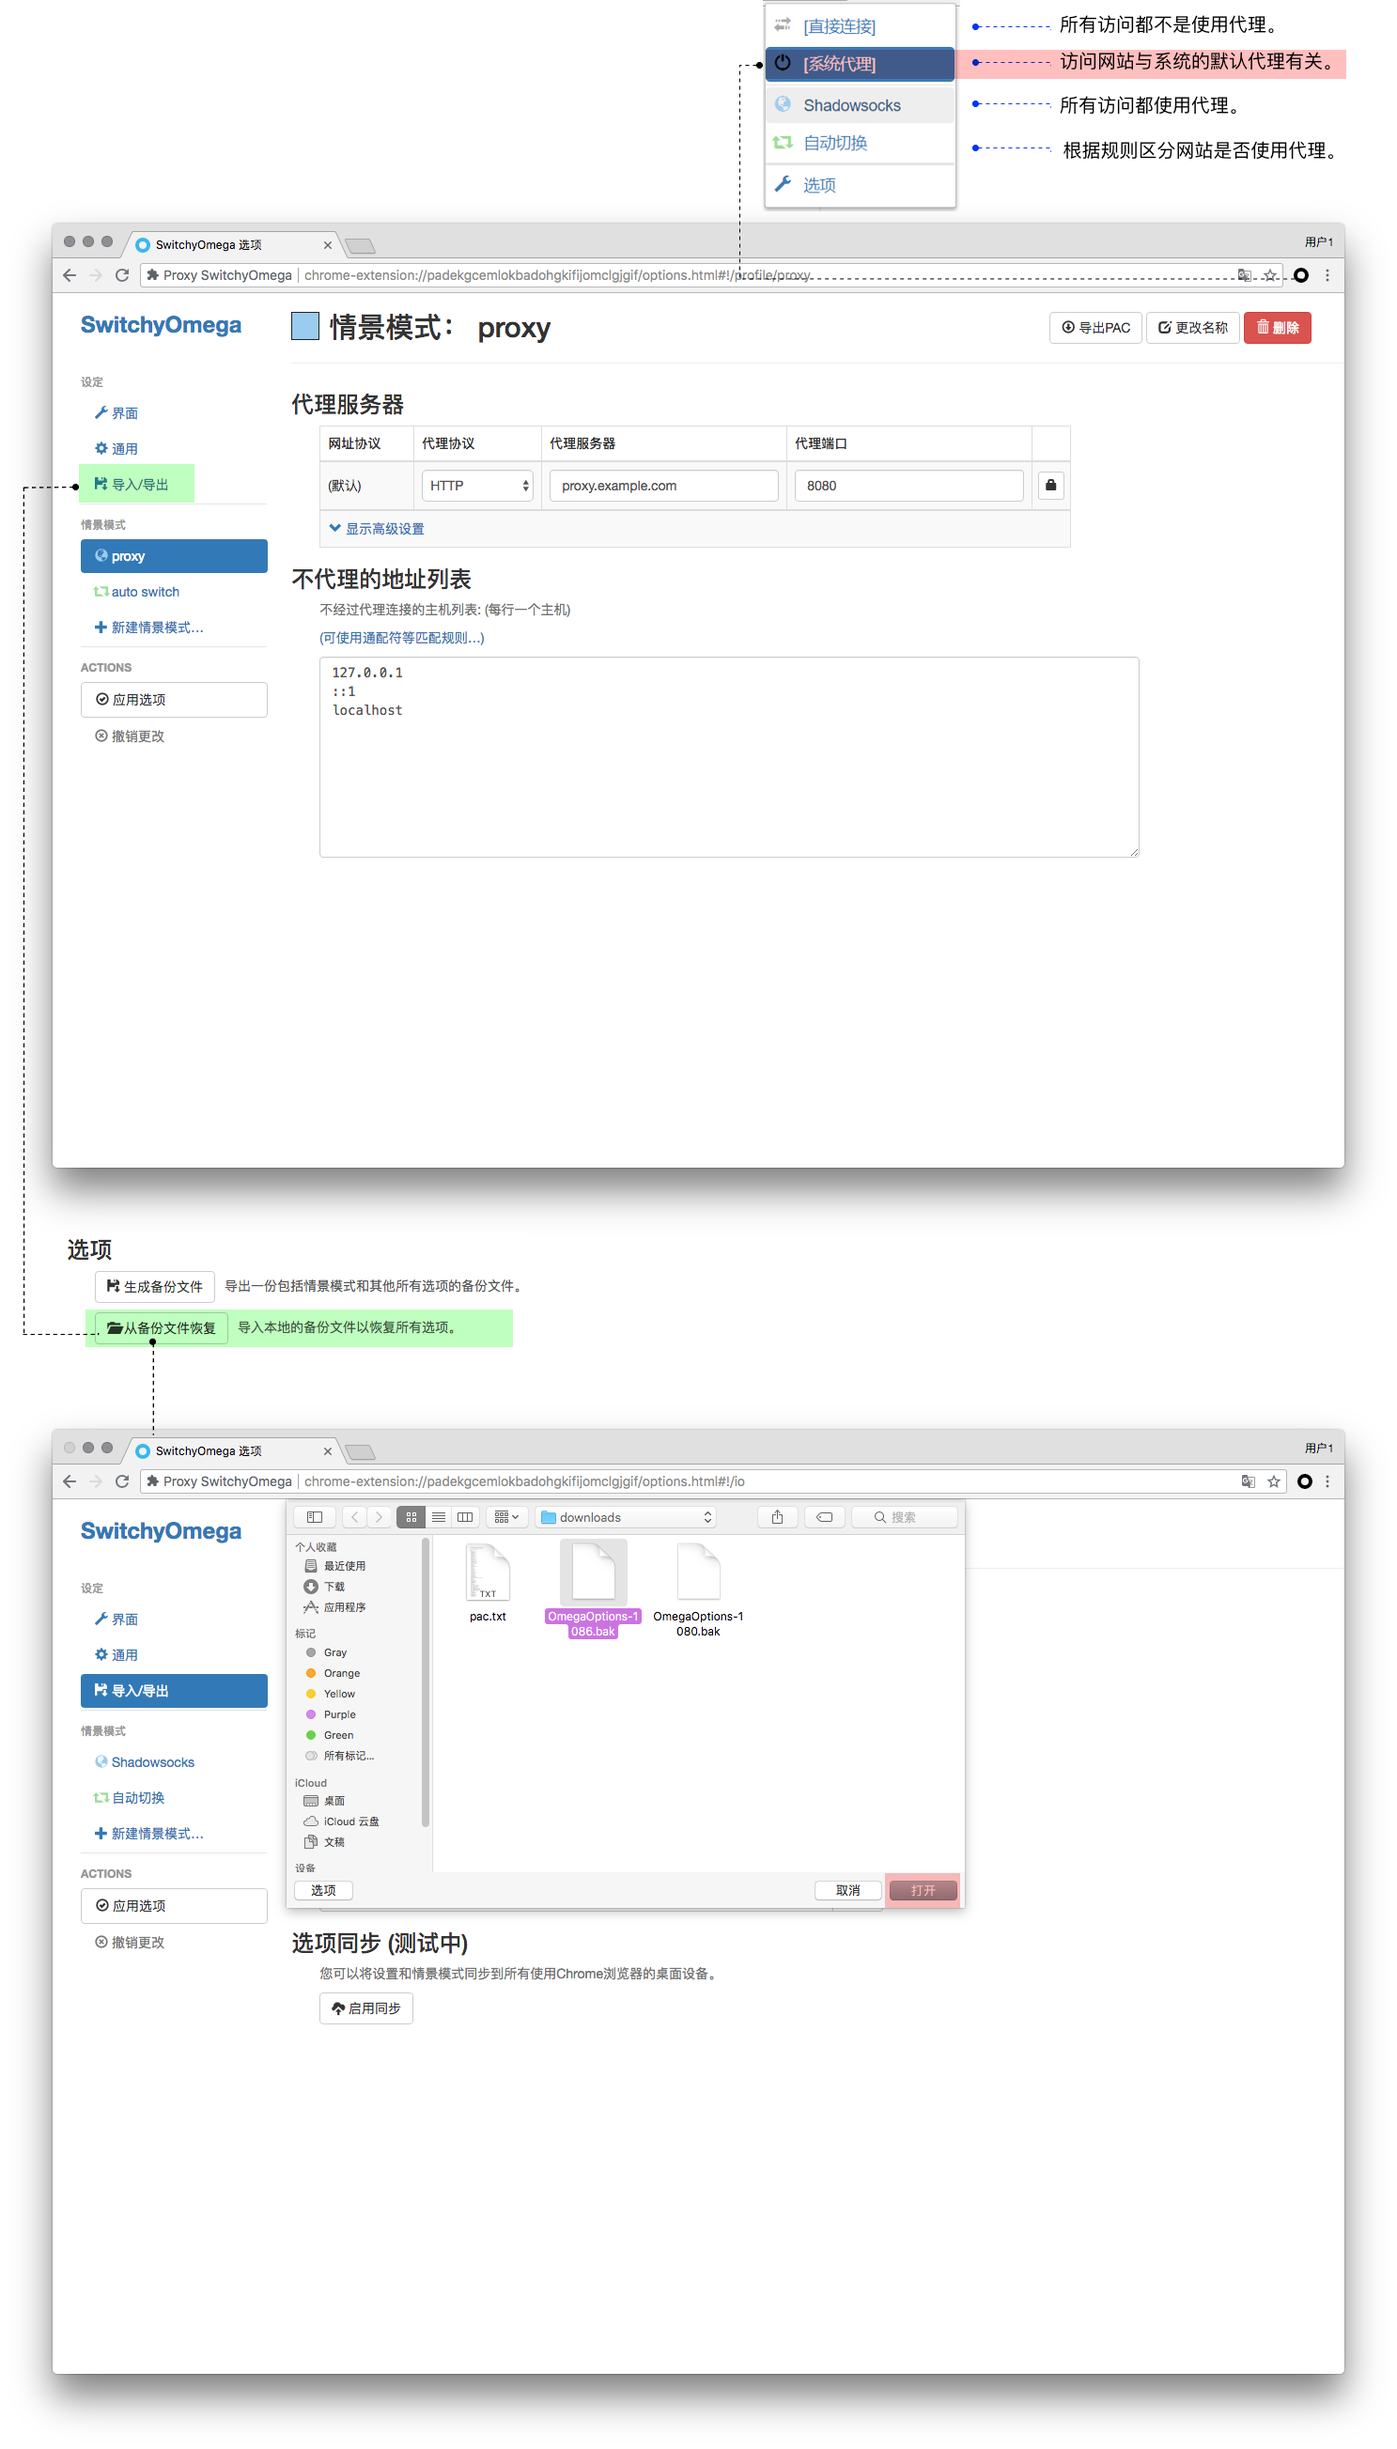
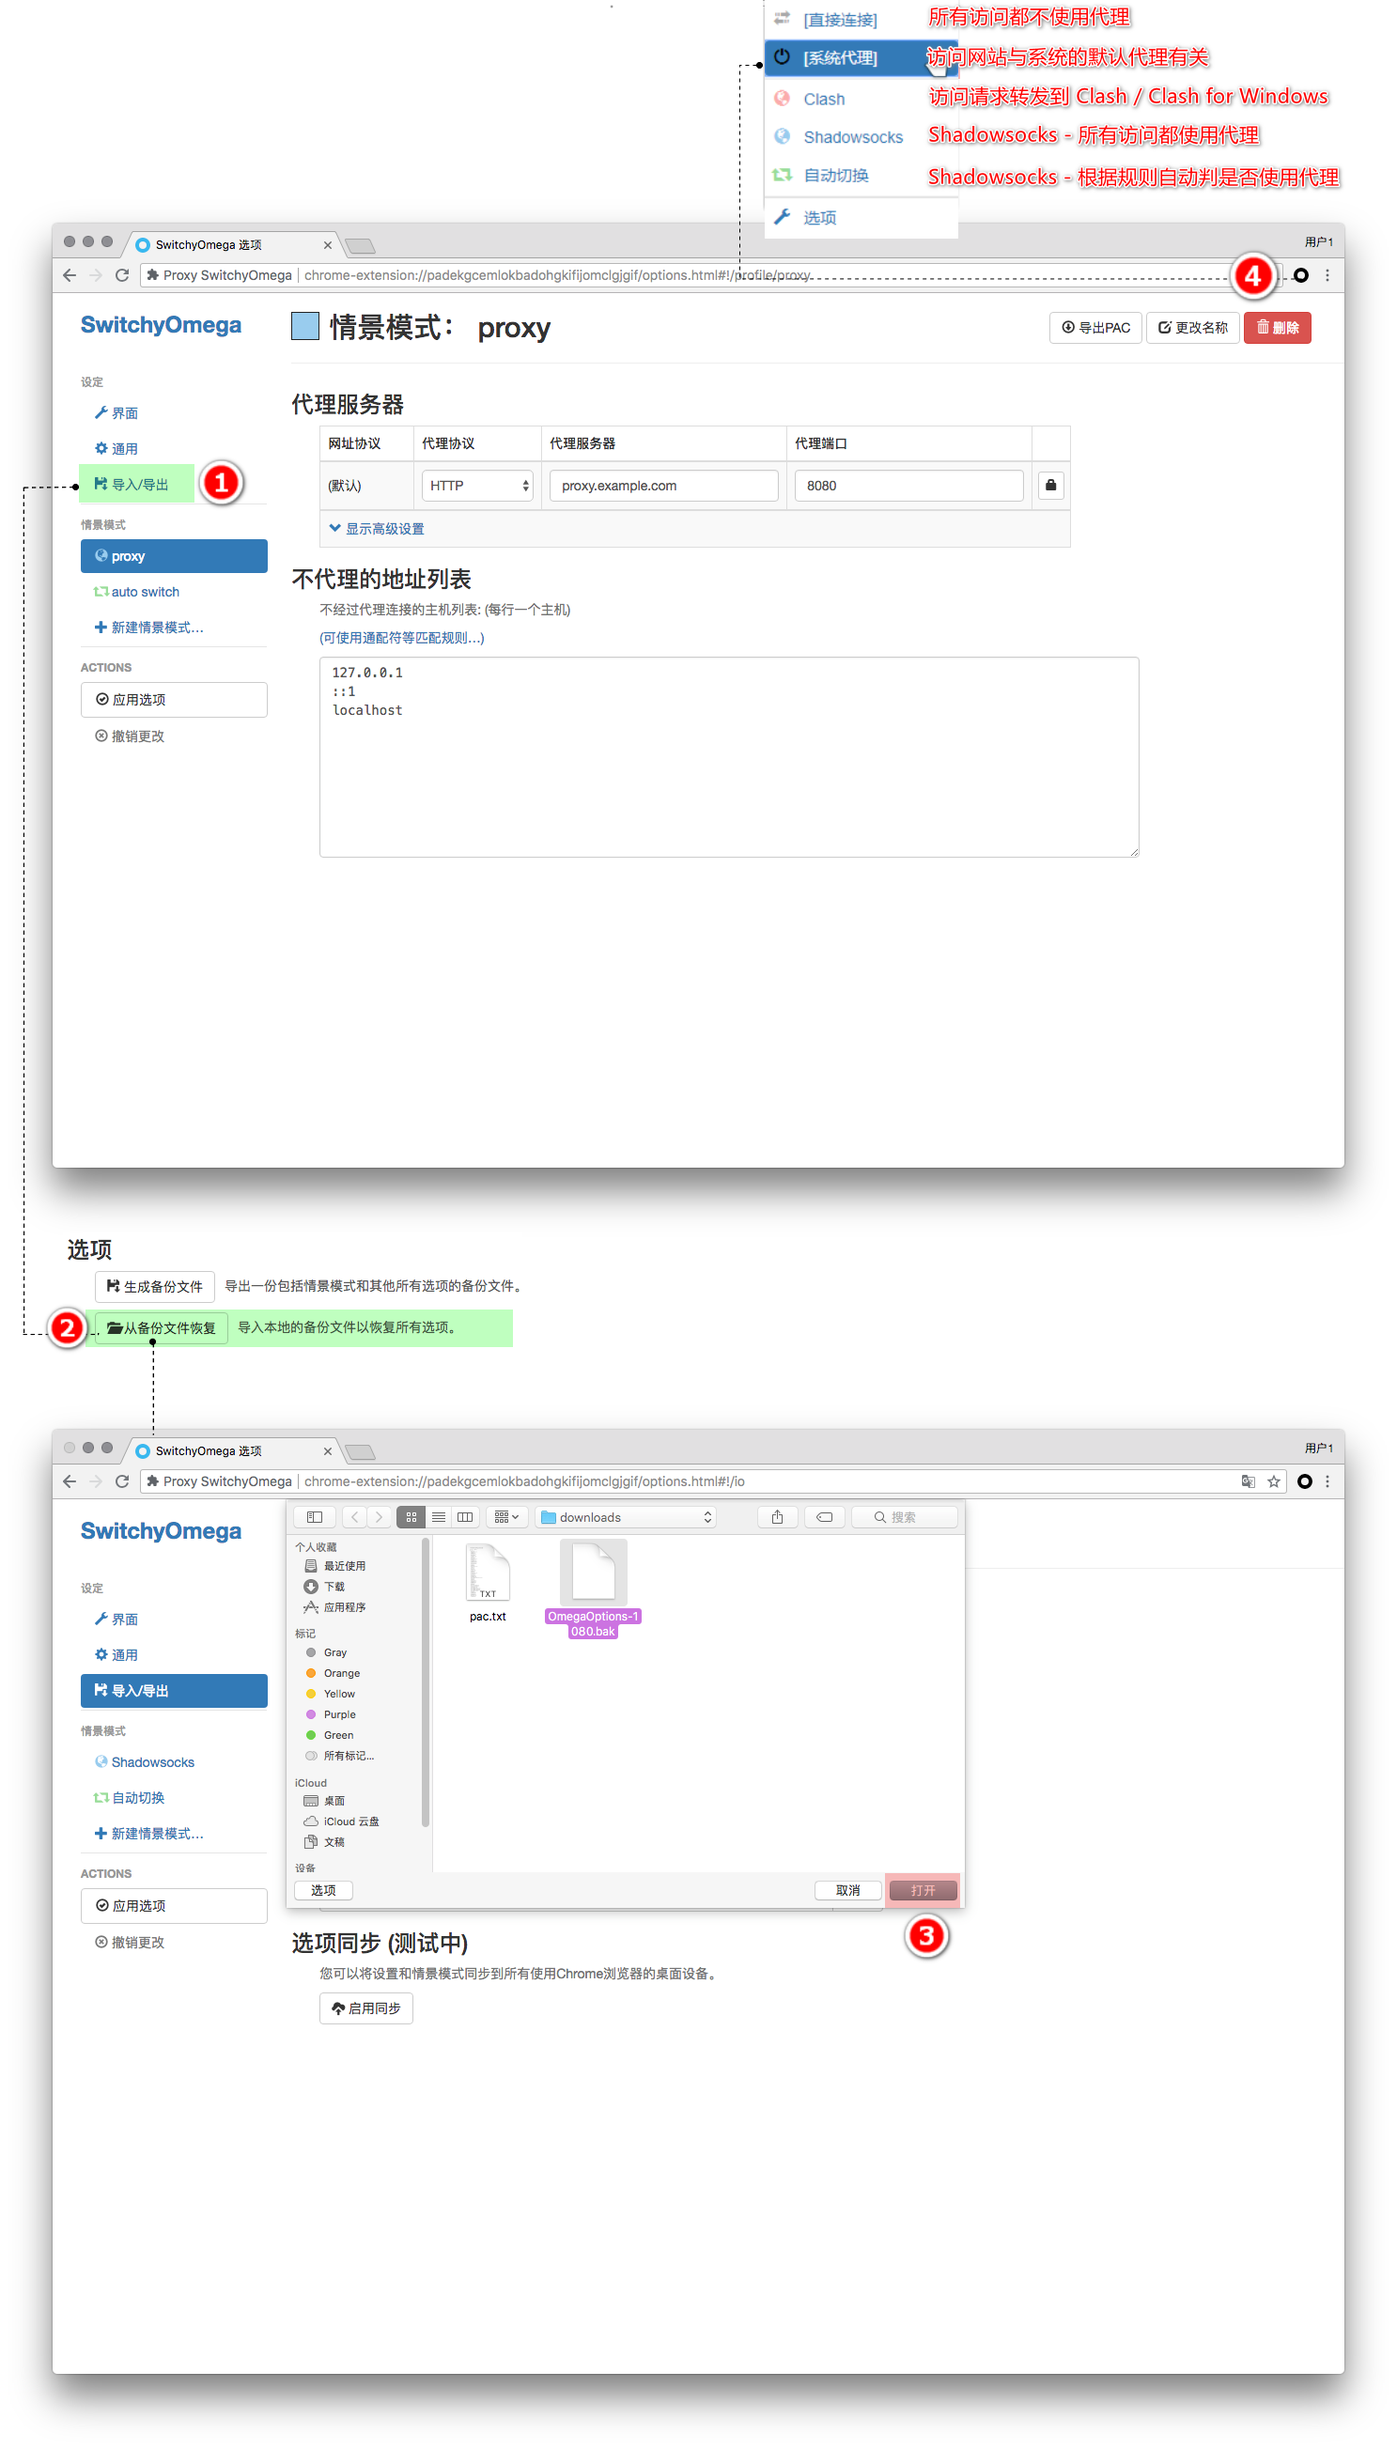
update

diff --git a/zh_CN/browser/chrome-setup-guide.md b/zh_CN/browser/chrome-setup-guide.md
@@ -1,10 +1,14 @@
 # Chrome + Proxy SwitchyOmega 设置
 
-**这里假设您已经配置好 Shadowsocks 客户端，具体请参考**
-
+**这里假设您已经配置好 Shadowsocks 客户端，具体请参考**  
+**Shadowsocks:**   
 - [Windows 下安装配置 Shadowsocks 使用教程](../../zh_CN/shadowsocks/windows-setup-guide.md)
 - [macOS 下安装配置 Shadowsocks 使用教程](../../zh_CN/shadowsocks/macos-setup-guide.md)
-- [Linux 下安装配置 Shadowsocks 使用教程](../../zh_CN/shadowsocks/linux-setup-guide.md)
+- [Linux 下安装配置 Shadowsocks 使用教程](../../zh_CN/shadowsocks/linux-setup-guide.md)    
+
+**Shadowsocks & V2ray[Vmess]:**
+* [Windows 下 Clash for Windows 使用教程](../../zh_CN/v2ray/clash-for-windows-setup-guide.md)
+* [macOS 下 ClashX 使用教程](../../zh_CN/v2ray/clashx-macos-setup-guide.md)
 
 ## 安装扩展
 
@@ -16,43 +20,38 @@
 
 **如果无法访问**
 
-* <font color="#FF0000">Chrome / Chromium  72 以上版本无法直接拖放安装，手动安装方法请参考：[浏览器设置教程 - Chrome 手动安装 SwitchyOmega](7-3-chrome-install-proxyswitchyomega-offline-cn.md)</font> 。  
-
-* 其他 Chrome 核心浏览器可访问 chrome://extensions/，请使用 Chrome 浏览器复制粘贴输入地址栏并回车访问。
-* 在 [Github](https://github.com/FelisCatus/SwitchyOmega/releases) 下载 SwitchyOmega.crx 文件并拖移入`chrome://extensions/` 。
-
-![使用Guthub](../../assets/images/bro-chrome-useGithub.png)
+<font color="#FF0000">Chrome / Chromium  72 以上版本无法直接拖放安装，手动安装方法请参考：</font>
+[浏览器设置教程 - Chrome 手动安装 SwitchyOmega](7-3-chrome-install-proxyswitchyomega-offline-cn.md)
 
 ## 扩展的配置
 
 **「推荐」** 可以直接使用本站提供的已经设置好的备份直接恢复配置。
 
-通过下面链接下载 SwitchyOmega 的配置文件：
+通过右侧链接下载 SwitchyOmega 的配置文件： [SwitchOmega + GFWList 自动切换配置文件](https://raw.githubusercontent.com/Shadowsocks-Wiki/shadowsocks/master/assets/OmegaOptions-1080.bak)
 
-|Windows/Linux/macOS(ShadowsocksX)|macOS|
-|:--------:|:--------:|
-|[SwitchOmega + GFWList 自动切换配置文件(1080)](https://portal.shadowsocks.center/dl.php?type=d&id=74)|[SwitchOmega + GFWList 自动切换配置文件(1086)](https://portal.shadowsocks.center/dl.php?type=d&id=75)|
-|适用于 Shadowsocks-Windows / Linux / ShadowsocksX(macOS) 等默认端口为 1080 的客户端。|适用于ShadowscoksX-NG， 默认本地端口为 1086|
+**注：使用该备份文件时，shadowsocks 客户端的本地 socks 监听端口应当设置为 1080** 
 
 * 点击 “Proxy SwitchyOmega” > "选项" > "导入/导出" > "从备份文件中恢复" 。
-
 * 选择刚才下载的配置文件 > "打开"。
 * 点击 "Switchyomega" 图标， 可以看到如下四个模式：
 
 
 |连接方式|功能|
-|--------|:--------:|
-|直接连接|所有访问都不是使用代理。|
+|:--------:|:--------:|
+|直接连接|所有访问都不使用代理。|
 |系统代理|访问网站与系统的默认代理有关。|
-|Shadowsocks|所有访问都使用代理。|
-|自动切换|所有访问都使用代理。|
+|Clash|**ClashX / Clash For Windows** 直接选择这个模式使用。 |
+|Shadowsocks| **Shadowsocks** - 所有访问都使用代理。|
+|自动切换| **Shadowsocks** - 根据规则自动判是否使用代理 |
 
+>Clash / Clash For Windows 自带规则判断，因此选择 Clash 模式使用即可。    
+其他 Shadowsocks 客户端可以根据情况选择 Shadowsocks 或是自动切换模式使用。
 
 > 本站提供的配置使用了 "GFWList", 可以使大部分无法直接访问的网站默认使用代理，推荐日常使用， 在下文中会包含 "自定义配置规则"。
 
  ![从备份文件中恢复](../../assets/images/bro-switchyomega.png)
 
-## 自定义规则
+## 自定义规则 适用于 Shadowsocks 客户端
 
 * 点击"自动切换模式" > "添加条件"。
 

diff --git a/zh_CN/browser/firefox-setup-guide.md b/zh_CN/browser/firefox-setup-guide.md
@@ -1,10 +1,14 @@
 # Firefox + Proxy SwitchyOmega 设置
 
-**这里假设您已经配置好 Shadowsocks 客户端，具体请参考**
-
+**这里假设您已经配置好 Shadowsocks 客户端，具体请参考**  
+**Shadowsocks:**  
 - [Windows 下安装配置 Shadowsocks 使用教程](../../zh_CN/shadowsocks/windows-setup-guide.md)
 - [macOS 下安装配置 Shadowsocks 使用教程](../../zh_CN/shadowsocks/macos-setup-guide.md)
-- [Linux 下安装配置 Shadowsocks 使用教程](../../zh_CN/shadowsocks/linux-setup-guide.md)
+- [Linux 下安装配置 Shadowsocks 使用教程](../../zh_CN/shadowsocks/linux-setup-guide.md)    
+
+**Shadowsocks & V2ray[Vmess]:** 
+* [Windows 下 Clash for Windows 使用教程](../../zh_CN/v2ray/clash-for-windows-setup-guide.md)
+* [macOS 下 ClashX 使用教程](../../zh_CN/v2ray/clashx-macos-setup-guide.md)
 
 **本文并不适合任何手机上的 Firefox 浏览器。**  
 **本文仅适用于 Firefox Quantum （Firefox 57 以上版本）**
@@ -25,25 +29,25 @@
 
 **「推荐」** 可以直接使用本站提供的已经设置好的备份直接恢复配置。
 
-通过下面链接下载 SwitchyOmega 的配置文件：
+通过右侧链接下载 SwitchyOmega 的配置文件： [SwitchOmega + GFWList 自动切换配置文件](https://raw.githubusercontent.com/Shadowsocks-Wiki/shadowsocks/master/assets/OmegaOptions-1080.bak)
 
-|Windows/Linux/macOS(ShadowsocksX)|macOS|
-|:--------:|:--------:|
-|[SwitchOmega + GFWList 自动切换配置文件(1080)](https://portal.shadowsocks.center/dl.php?type=d&id=74)|[SwitchOmega + GFWList 自动切换配置文件(1086)](https://portal.shadowsocks.center/dl.php?type=d&id=75)|
-|适用于 Shadowsocks-Windows / Linux / ShadowsocksX(macOS) 等默认端口为 1080 的客户端。|适用于ShadowscoksX-NG， 默认本地端口为 1086|
+**注：使用该备份文件时，shadowsocks 客户端的本地 socks 监听端口应当设置为 1080** 
 
 * 点击 “Proxy SwitchyOmega” > "选项" > "导入/导出" > "从备份文件中恢复" 。
-
 * 选择刚才下载的配置文件 > "打开"。
 * 点击 "Switchyomega" 图标， 可以看到如下四个模式：
 
 
 |连接方式|功能|
-|--------|:--------:|
+|:--------:|:--------:|
 |直接连接|所有访问都不是使用代理。|
 |系统代理|访问网站与系统的默认代理有关。|
-|Shadowsocks|所有访问都使用代理。|
-|自动切换|所有访问都使用代理。|
+|Clash|**ClashX / Clash For Windows** 直接选择这个使用。|
+|Shadowsocks| **Shadowsocks** - 所有访问都使用代理。|
+|自动切换| **Shadowsocks**  - 根据 GFWLIST 规则自动判是否使用代理 |
+
+>Clash / Clash For Windows 自带规则判断，因此选择 Clash 模式使用即可。    
+其他 Shadowsocks 客户端可以根据情况选择 Shadowsocks 或是自动切换模式使用。
 
 
 > 本站提供的配置使用了 "GFWList", 可以使大部分无法直接访问的网站默认使用代理，推荐日常使用， 在下文中会包含 "自定义配置规则"。

diff --git a/zh_CN/v2ray/clashx-macos-setup-guide.md b/zh_CN/v2ray/clashx-macos-setup-guide.md
@@ -15,7 +15,9 @@ ClashX 支持 Shadowsoks 协议以及 V2Ray 的 vmess 协议
   - [开启系统代理](#开启系统代理)
   - [通过延迟测试判断可用节点](#通过延迟测试判断可用节点)
   - [出站规则介绍](#出站规则介绍)
-  - [Chrome / Firefox 配合 SwitchOmega 扩展](#chrome--firefox-配合-switchomega-扩展)
+  - [Chrome / Firefox 配合 Proxy SwitchOmega 扩展](#chrome--firefox-配合-proxy-switchomega-扩展)
+      - [配置 Firefox 的代理](#配置-firefox-的代理)
+      - [配置 Chrome 的代理](#配置-chrome-的代理)
 
 ## 下载客户端
 - 从本站 [资源下载](https://portal.shadowsocks.center/download/category/5/V2Ray-.html) 中下载： [Clash for Windows 点击下载](https://portal.shadowsocks.center/dl.php?type=d&id=85) | [ClashX(macOS) 点击下载](https://portal.shadowsocks.center/dl.php?type=d&id=84)
@@ -107,8 +109,14 @@ ClashX 支持 Shadowsoks 协议以及 V2Ray 的 vmess 协议
 
 ![clashx-set-rule](../../assets/images/clash/clashx-set-rule.png)
 
-## Chrome / Firefox 配合 SwitchOmega 扩展
-ClashX 提供的本地 socks5 端口为 7891，对应的 SwitchOmega 配置文件我们将在之后提供并更新本教程。  
-如果您导入了本站提供针对 Shadowsocks 的扩展备份文件，建议先选择系统代理的情景模式配合 ClashX 使用。
+## Chrome / Firefox 配合 Proxy SwitchOmega 扩展
+#### 	配置 Firefox 的代理
 
-如果系统代理无法正常工作，请在扩展设置选项中将 Shadowsocks 模式的代理端口由 1080/1086 修改为 Clash 对应的 7891 即可正常使用  
+**如需使用 Firefox 浏览器	通过代理浏览网页，请参考下面链接：**  
+[Firefox + Proxy SwitchyOmega 设置](../../zh_CN/browser/firefox-setup-guide.md)
+
+#### 配置 Chrome 的代理
+
+**如需使用 Chrome 浏览器通过代理浏览网页，请参考下面链接：**  
+[Chrome + Proxy SwitchyOmega 设置](../../zh_CN/browser/chrome-setup-guide.md)
+

diff --git a/zh_CN/shadowsocks/macos-setup-guide.md b/zh_CN/shadowsocks/macos-setup-guide.md
@@ -9,8 +9,9 @@
       - [扫码添加](#扫码添加)
   - [配置系统代理模式](#配置系统代理模式)
   - [注意事项](#注意事项)
-  - [配置 Firefox 的代理](#配置-firefox-的代理)
-  - [配置 Chrome 的代理](#配置-chrome-的代理)
+  - [Chrome / Firefox 配合 Proxy SwitchOmega 扩展](#chrome--firefox-配合-proxy-switchomega-扩展)
+    - [配置 Firefox 的代理](#配置-firefox-的代理)
+    - [配置 Chrome 的代理](#配置-chrome-的代理)
 
 
 ## 系统要求
@@ -84,13 +85,20 @@
 * **PAC 模式** 表示可以实现自动代理， 及本来可以访问的网站不会经过代理，推荐日常使用。
 * **全局模式** 表示计算机内大多数流量都会经过代理， 不推荐日常使用。
 
-## 	配置 Firefox 的代理
+## Chrome / Firefox 配合 Proxy SwitchOmega 扩展
+如需使用 Chrome / Firefox 配合 Proxy SwitchOmega 扩展使用，需将 shadowsocksX-NG `本地socks5监听端口` 由 1086 修改为 1080。  
+打开 ShadowsocksX-NG 的偏好设置，找到高级选项卡，进行修改。  
+其他端口不需要修改。  
+![pac设置](../../assets/images/mac-xng-1080.png)
+
+
+### 配置 Firefox 的代理
 
 **如需使用 Firefox 浏览器	通过代理浏览网页，请参考下面链接：**  
-[Firefox上设置代理](../../zh_CN/browser/firefox-setup-guide.md)
+[Firefox + Proxy SwitchyOmega 设置](../../zh_CN/browser/firefox-setup-guide.md)
 
 
-## 配置 Chrome 的代理
+### 配置 Chrome 的代理
 
 **如需使用 Chrome 浏览器通过代理浏览网页，请参考下面链接：**  
 [Chrome + Proxy SwitchyOmega 设置](../../zh_CN/browser/chrome-setup-guide.md)

diff --git a/zh_CN/introduction-of-client-portal.md b/zh_CN/introduction-of-client-portal.md
@@ -9,7 +9,7 @@
   - [查看节点信息](#查看节点信息)
   - [下载配置文件](#下载配置文件)
   - [查看节点二维码](#查看节点二维码)
-  - [使用教程请参考：](#使用教程请参考)
+  - [使用教程](#使用教程)
 
 
 ## 版本区别
@@ -109,12 +109,20 @@
 
 ![点击 "二维码" 图标，显示二维码。 ](../assets/images/int-portal-qrcode.png)
 
-## 使用教程请参考：  
+## 使用教程  
+**Shadowsocks:**  
 - [Windows 下安装配置 Shadowsocks 使用教程](../zh_CN/shadowsocks/windows-setup-guide.md)  
 - [macOS 下安装配置 Shadowsocks 使用教程](../zh_CN/shadowsocks/macos-setup-guide.md)  
 - [iOS 下安装配置 Shadowsocks 使用教程](../zh_CN/shadowsocks/ios-setup-guide.md)  
 - [Android 下安装配置 Shadowsocks 使用教程](../zh_CN/shadowsocks/android-setup-guide.md)
 - [Linux 下安装配置 Shadowsocks 使用教程](../zh_CN/shadowsocks/linux-setup-guide.md)
 
+**Shadowsocks & V2ray[Vmess]:**
+* [Windows 下 Clash for Windows 使用教程](../zh_CN/v2ray/clash-for-windows-setup-guide.md)
+* [Windows 下 V2rayN 使用教程](../zh_CN/v2ray/v2ray-win-v2rayN.md)
+* [macOS 下 ClashX 使用教程](../zh_CN/v2ray/clashx-macos-setup-guide.md)
+* [Android 下 V2rayNG 使用教程](../zh_CN/v2ray/v2ray-android-v2rayNG.md)
+
+**浏览器设置：**
 - [Chrome 设置教程 (Proxy SwitchyOmega) ](../zh_CN/browser/chrome-setup-guide.md)
 - [Firefox Quantum 设置教程 (Proxy SwitchyOmega)](../zh_CN/browser/firefox-setup-guide.md)

diff --git a/zh_CN/shadowsocks/linux-setup-guide.md b/zh_CN/shadowsocks/linux-setup-guide.md
@@ -168,7 +168,7 @@ kill 相应的 pid 即可
 ## 	配置 Firefox 的代理
 
 **如需使用 Firefox 浏览器	通过代理浏览网页，请参考下面链接：**  
-[Firefox上设置代理](zh_CN/browser/firefox-setup-guide.md)
+[Firefox + Proxy SwitchyOmega 设置](zh_CN/browser/firefox-setup-guide.md)
 
 
 ## 配置 Chrome 的代理

diff --git a/zh_CN/shadowsocks/windows-setup-guide.md b/zh_CN/shadowsocks/windows-setup-guide.md
@@ -105,7 +105,7 @@
 ## 	配置 Firefox 的代理
 
 **如需使用 Firefox 浏览器	通过代理浏览网页，请参考下面链接：**  
-[Firefox上设置代理](../../zh_CN/browser/firefox-setup-guide.md)
+[Firefox + Proxy SwitchyOmega 设置](../../zh_CN/browser/firefox-setup-guide.md)
 
 
 ## 配置 Chrome 的代理
